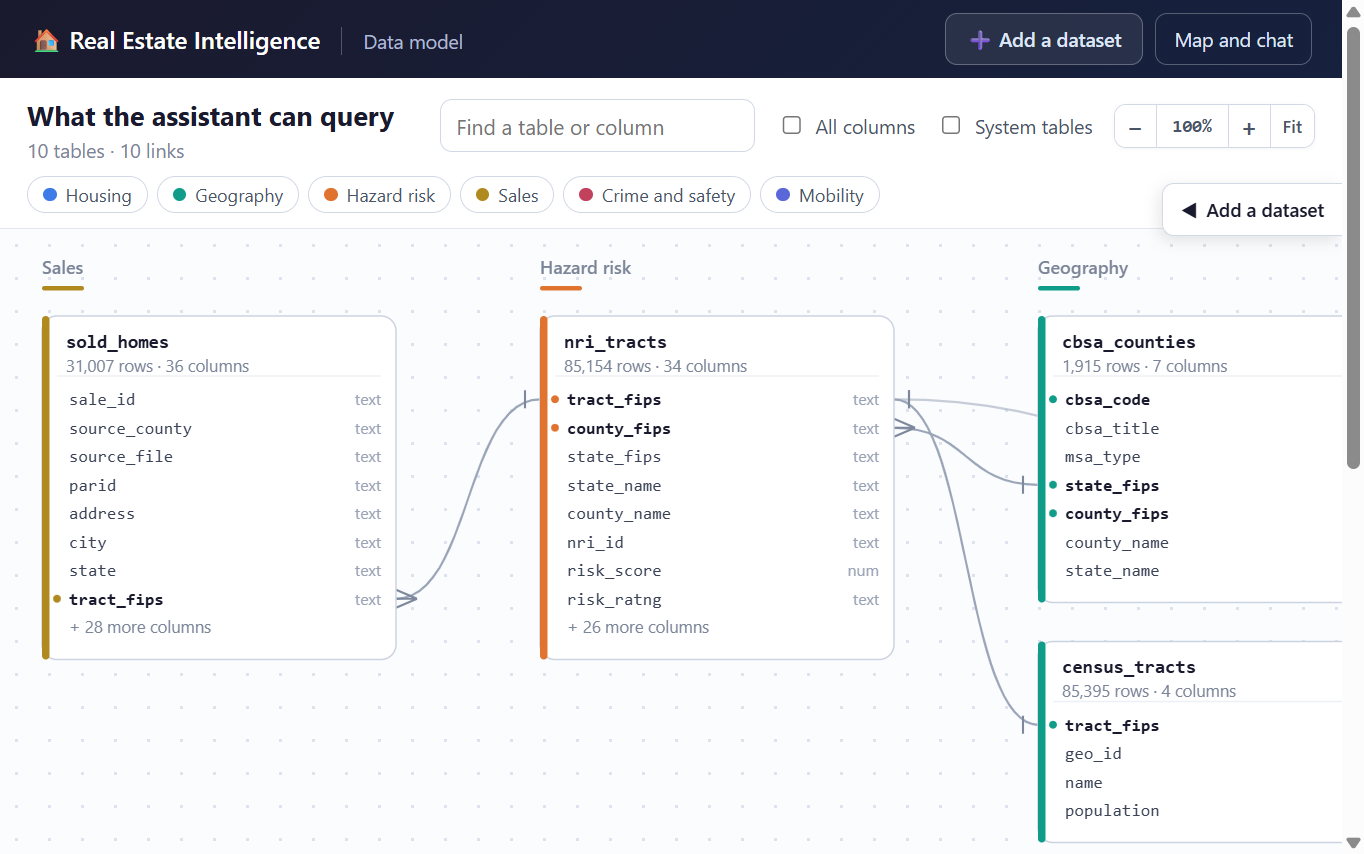
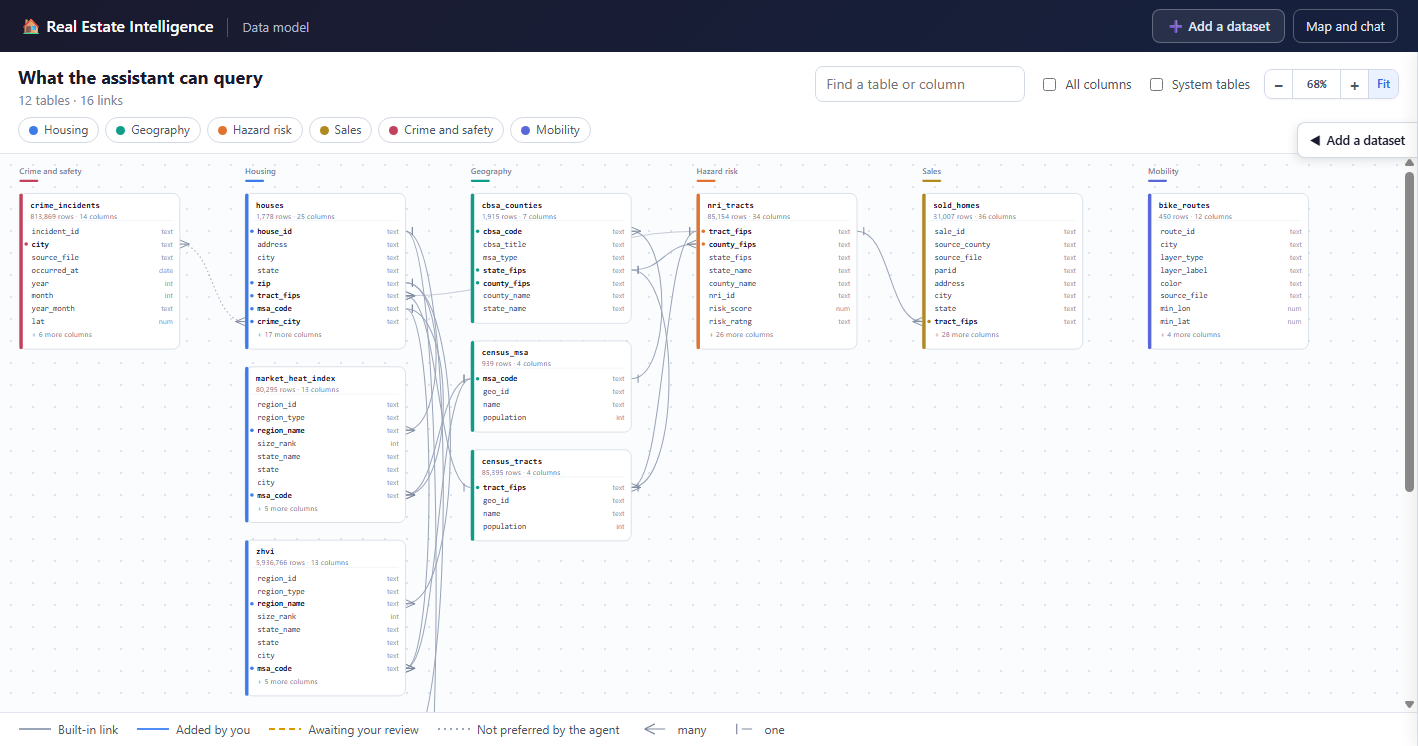
docs: update data catalog screenshot and user guide for Zillow data sources
- Recapture 13-data-catalog.png showing 12 tables and 16 links (was 10/10) with zhvi and market_heat_index nodes in the Housing domain

- Add --only zhvi and --only market_heat_index to the Keeping Data Fresh CLI reference

- Update preamble data counts to include ~5.9M ZHVI rows and ~80K Market Heat Index rows

diff --git a/USER_GUIDE.md b/USER_GUIDE.md
@@ -5,9 +5,10 @@ overview and complete technical and setup documentation, see the [README](README
 
 > **About the screenshots in this guide.** These were captured from the local application
 > and database on September 27, 2026. At capture time the database contained 1,778 houses,
-> 85,154 NRI records, and 450 bike routes. Your screens will vary with the data loaded in
-> your own database. Some views below reflect data or services that were unavailable in
-> this local run; those states are called out where they appear.
+> 85,154 NRI records, 450 bike routes, ~5.9 M ZHVI rows, and ~80 K Market Heat Index rows.
+> Your screens will vary with the data loaded in your own database. Some views below
+> reflect data or services that were unavailable in this local run; those states are called
+> out where they appear.
 
 ---
 
@@ -201,6 +202,8 @@ python setup_data.py --only sold      # just sold homes
 python setup_data.py --only crime     # just crime data
 python setup_data.py --only bike      # just BikePGH route data
 python setup_data.py --only census    # CBSA crosswalk + tract/MSA populations
+python setup_data.py --only zhvi      # just Zillow Home Value Index
+python setup_data.py --only market_heat_index  # just Zillow Market Heat Index
 python setup_data.py --only geocode   # retry pending sold-home geocodes
 python setup_data.py --only match     # link sold records to houses
 python setup_data.py --resolve-tracts # resolve missing house tract FIPS values
